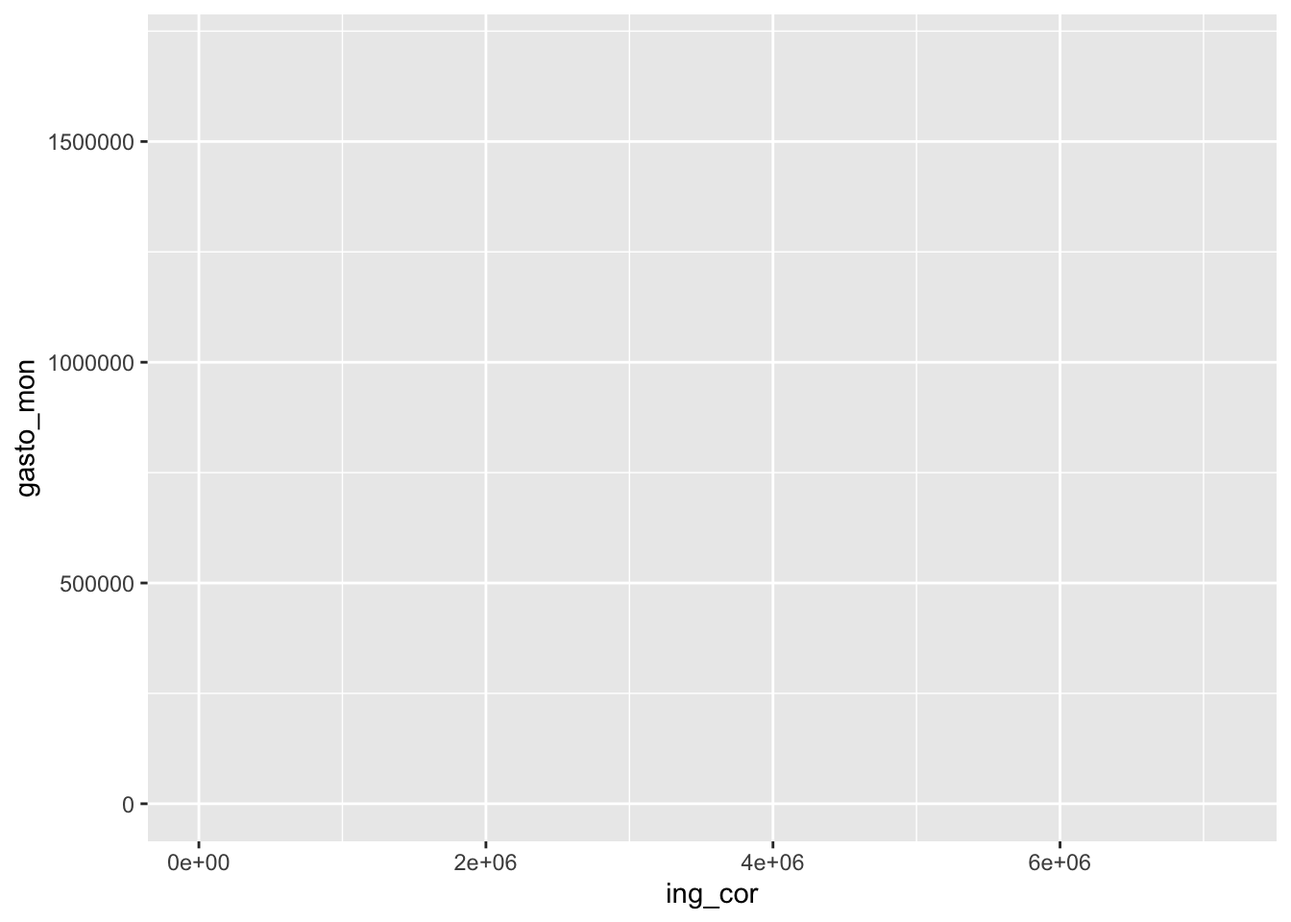
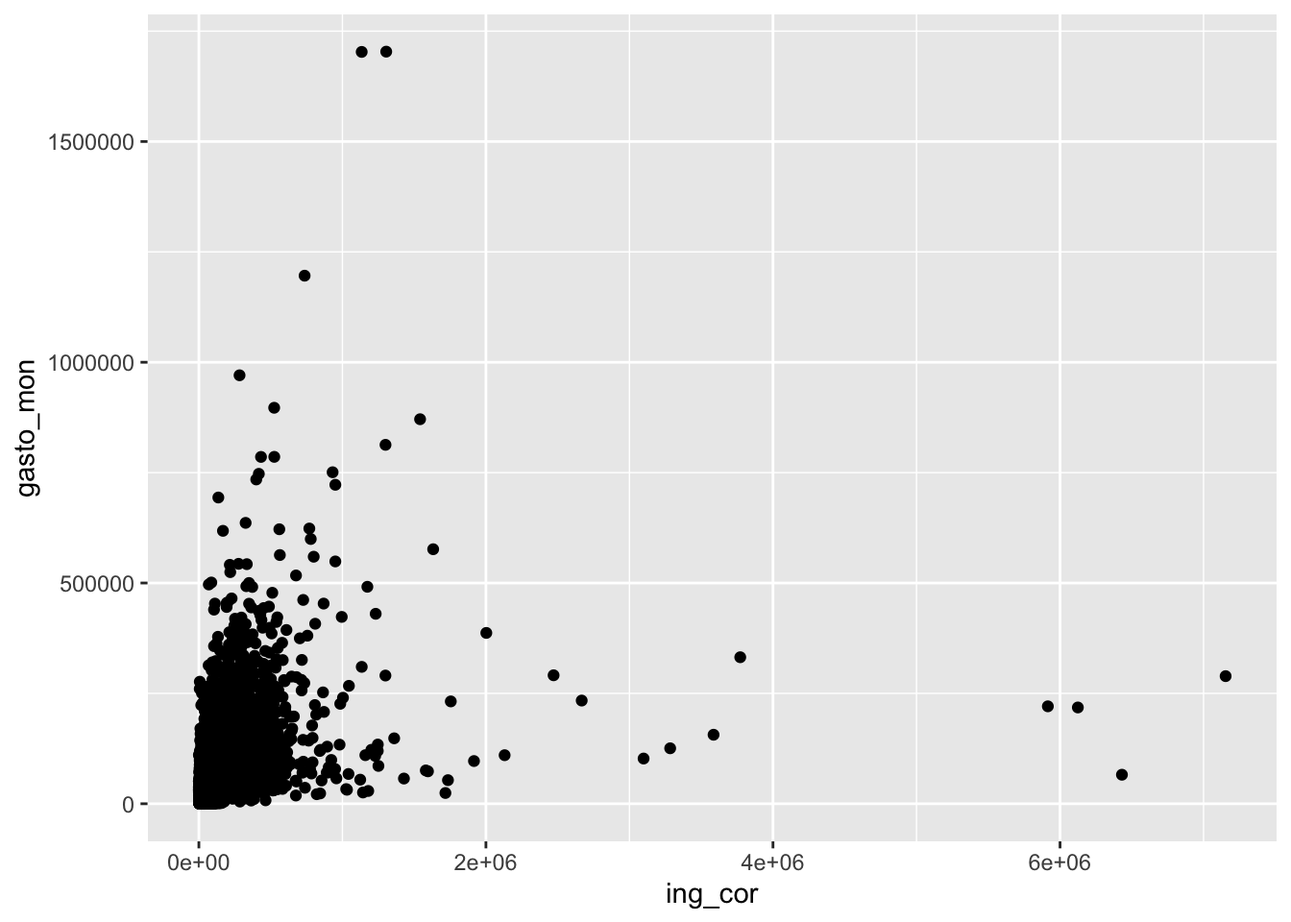
p6_correc

diff --git a/docs/P6.html b/docs/P6.html
@@ -243,6 +243,9 @@ pre > code.sourceCode > span > a:first-child::before { text-decoration: underlin
   <li><a href="#gráficos-bivariados" id="toc-gráficos-bivariados" class="nav-link" data-scroll-target="#gráficos-bivariados">Gráficos bivariados</a>
   <ul class="collapse">
   <li><a href="#cuali-cuali" id="toc-cuali-cuali" class="nav-link" data-scroll-target="#cuali-cuali">Cuali-cuali</a></li>
+  </ul></li>
+  <li><a href="#escalas-de-color" id="toc-escalas-de-color" class="nav-link" data-scroll-target="#escalas-de-color">Escalas de color</a>
+  <ul class="collapse">
   <li><a href="#rcolorbrewer" id="toc-rcolorbrewer" class="nav-link" data-scroll-target="#rcolorbrewer"><code>{RcolorBrewer}</code></a></li>
   <li><a href="#viridis" id="toc-viridis" class="nav-link" data-scroll-target="#viridis"><code>{viridis}</code></a></li>
   <li><a href="#wesanderson" id="toc-wesanderson" class="nav-link" data-scroll-target="#wesanderson"><code>{wesanderson}</code></a></li>
@@ -488,8 +491,10 @@ pre > code.sourceCode > span > a:first-child::before { text-decoration: underlin
 <p><img src="P6_files/figure-html/unnamed-chunk-12-1.png" class="img-fluid" width="672"></p>
 </div>
 </div>
-<p>##Escalas de color</p>
 </section>
+</section>
+<section id="escalas-de-color" class="level2">
+<h2 class="anchored" data-anchor-id="escalas-de-color">Escalas de color</h2>
 <section id="rcolorbrewer" class="level3">
 <h3 class="anchored" data-anchor-id="rcolorbrewer"><code>{RcolorBrewer}</code></h3>
 <div class="cell">
@@ -634,37 +639,32 @@ $IsleofDogs2
 <div class="sourceCode cell-code" id="cb28"><pre class="sourceCode r code-with-copy"><code class="sourceCode r"><span id="cb28-1"><a href="#cb28-1" aria-hidden="true" tabindex="-1"></a>concentrado2022 <span class="sc">%&gt;%</span> </span>
 <span id="cb28-2"><a href="#cb28-2" aria-hidden="true" tabindex="-1"></a>  <span class="fu">ggplot</span>() <span class="sc">+</span></span>
 <span id="cb28-3"><a href="#cb28-3" aria-hidden="true" tabindex="-1"></a>  <span class="fu">aes</span>(<span class="at">x=</span>ing_cor,</span>
-<span id="cb28-4"><a href="#cb28-4" aria-hidden="true" tabindex="-1"></a>      <span class="at">y=</span>gasto_mon)</span></code><button title="Copy to Clipboard" class="code-copy-button"><i class="bi"></i></button></pre></div>
+<span id="cb28-4"><a href="#cb28-4" aria-hidden="true" tabindex="-1"></a>      <span class="at">y=</span>gasto_mon) <span class="sc">+</span></span>
+<span id="cb28-5"><a href="#cb28-5" aria-hidden="true" tabindex="-1"></a>  <span class="fu">geom_point</span>() <span class="co">#puntito</span></span></code><button title="Copy to Clipboard" class="code-copy-button"><i class="bi"></i></button></pre></div>
 <div class="cell-output-display">
 <p><img src="P6_files/figure-html/unnamed-chunk-21-1.png" class="img-fluid" width="672"></p>
-</div>
-<div class="sourceCode cell-code" id="cb29"><pre class="sourceCode r code-with-copy"><code class="sourceCode r"><span id="cb29-1"><a href="#cb29-1" aria-hidden="true" tabindex="-1"></a>  <span class="fu">geom_point</span>() <span class="co">#puntito</span></span></code><button title="Copy to Clipboard" class="code-copy-button"><i class="bi"></i></button></pre></div>
-<div class="cell-output cell-output-stdout">
-<pre><code>geom_point: na.rm = FALSE
-stat_identity: na.rm = FALSE
-position_identity </code></pre>
 </div>
 </div>
 </section>
 <section id="geometría-jitter" class="level3">
 <h3 class="anchored" data-anchor-id="geometría-jitter">geometría “jitter”</h3>
 <div class="cell">
-<div class="sourceCode cell-code" id="cb31"><pre class="sourceCode r code-with-copy"><code class="sourceCode r"><span id="cb31-1"><a href="#cb31-1" aria-hidden="true" tabindex="-1"></a>concentrado2022 <span class="sc">%&gt;%</span> </span>
-<span id="cb31-2"><a href="#cb31-2" aria-hidden="true" tabindex="-1"></a>  <span class="fu">ggplot</span>() <span class="sc">+</span></span>
-<span id="cb31-3"><a href="#cb31-3" aria-hidden="true" tabindex="-1"></a>  <span class="fu">aes</span>(<span class="at">x=</span>ing_cor,</span>
-<span id="cb31-4"><a href="#cb31-4" aria-hidden="true" tabindex="-1"></a>      <span class="at">y=</span>gasto_mon,</span>
-<span id="cb31-5"><a href="#cb31-5" aria-hidden="true" tabindex="-1"></a>      <span class="at">alpha=</span> <span class="fu">I</span>(<span class="fl">0.2</span>))<span class="sc">+</span></span>
-<span id="cb31-6"><a href="#cb31-6" aria-hidden="true" tabindex="-1"></a>  <span class="fu">geom_jitter</span>() <span class="do">## puntito pero "separado"</span></span></code><button title="Copy to Clipboard" class="code-copy-button"><i class="bi"></i></button></pre></div>
+<div class="sourceCode cell-code" id="cb29"><pre class="sourceCode r code-with-copy"><code class="sourceCode r"><span id="cb29-1"><a href="#cb29-1" aria-hidden="true" tabindex="-1"></a>concentrado2022 <span class="sc">%&gt;%</span> </span>
+<span id="cb29-2"><a href="#cb29-2" aria-hidden="true" tabindex="-1"></a>  <span class="fu">ggplot</span>() <span class="sc">+</span></span>
+<span id="cb29-3"><a href="#cb29-3" aria-hidden="true" tabindex="-1"></a>  <span class="fu">aes</span>(<span class="at">x=</span>ing_cor,</span>
+<span id="cb29-4"><a href="#cb29-4" aria-hidden="true" tabindex="-1"></a>      <span class="at">y=</span>gasto_mon,</span>
+<span id="cb29-5"><a href="#cb29-5" aria-hidden="true" tabindex="-1"></a>      <span class="at">alpha=</span> <span class="fu">I</span>(<span class="fl">0.2</span>))<span class="sc">+</span></span>
+<span id="cb29-6"><a href="#cb29-6" aria-hidden="true" tabindex="-1"></a>  <span class="fu">geom_jitter</span>() <span class="do">## puntito pero "separado"</span></span></code><button title="Copy to Clipboard" class="code-copy-button"><i class="bi"></i></button></pre></div>
 <div class="cell-output-display">
 <p><img src="P6_files/figure-html/unnamed-chunk-22-1.png" class="img-fluid" width="672"></p>
 </div>
 </div>
 <div class="cell">
-<div class="sourceCode cell-code" id="cb32"><pre class="sourceCode r code-with-copy"><code class="sourceCode r"><span id="cb32-1"><a href="#cb32-1" aria-hidden="true" tabindex="-1"></a>concentrado2022 <span class="sc">%&gt;%</span> </span>
-<span id="cb32-2"><a href="#cb32-2" aria-hidden="true" tabindex="-1"></a>  <span class="fu">ggplot</span>() <span class="sc">+</span></span>
-<span id="cb32-3"><a href="#cb32-3" aria-hidden="true" tabindex="-1"></a>  <span class="fu">aes</span>(<span class="at">x=</span>ing_cor,</span>
-<span id="cb32-4"><a href="#cb32-4" aria-hidden="true" tabindex="-1"></a>      <span class="at">y=</span>gasto_mon) <span class="sc">+</span></span>
-<span id="cb32-5"><a href="#cb32-5" aria-hidden="true" tabindex="-1"></a>  <span class="fu">geom_text</span>(<span class="fu">aes</span>(<span class="at">label=</span>ent)) <span class="do">## un texto en lugar de punto</span></span></code><button title="Copy to Clipboard" class="code-copy-button"><i class="bi"></i></button></pre></div>
+<div class="sourceCode cell-code" id="cb30"><pre class="sourceCode r code-with-copy"><code class="sourceCode r"><span id="cb30-1"><a href="#cb30-1" aria-hidden="true" tabindex="-1"></a>concentrado2022 <span class="sc">%&gt;%</span> </span>
+<span id="cb30-2"><a href="#cb30-2" aria-hidden="true" tabindex="-1"></a>  <span class="fu">ggplot</span>() <span class="sc">+</span></span>
+<span id="cb30-3"><a href="#cb30-3" aria-hidden="true" tabindex="-1"></a>  <span class="fu">aes</span>(<span class="at">x=</span>ing_cor,</span>
+<span id="cb30-4"><a href="#cb30-4" aria-hidden="true" tabindex="-1"></a>      <span class="at">y=</span>gasto_mon) <span class="sc">+</span></span>
+<span id="cb30-5"><a href="#cb30-5" aria-hidden="true" tabindex="-1"></a>  <span class="fu">geom_text</span>(<span class="fu">aes</span>(<span class="at">label=</span>ent)) <span class="do">## un texto en lugar de punto</span></span></code><button title="Copy to Clipboard" class="code-copy-button"><i class="bi"></i></button></pre></div>
 <div class="cell-output-display">
 <p><img src="P6_files/figure-html/unnamed-chunk-23-1.png" class="img-fluid" width="672"></p>
 </div>
@@ -673,9 +673,11 @@ position_identity </code></pre>
 <section id="geometría-label" class="level3">
 <h3 class="anchored" data-anchor-id="geometría-label">geometría “label”</h3>
 <div class="cell">
-<div class="sourceCode cell-code" id="cb33"><pre class="sourceCode r code-with-copy"><code class="sourceCode r"><span id="cb33-1"><a href="#cb33-1" aria-hidden="true" tabindex="-1"></a>concentrado2022 <span class="sc">%&gt;%</span> </span>
-<span id="cb33-2"><a href="#cb33-2" aria-hidden="true" tabindex="-1"></a>  <span class="fu">ggplot</span>(<span class="fu">aes</span>(ing_cor,gasto_mon)) <span class="sc">+</span></span>
-<span id="cb33-3"><a href="#cb33-3" aria-hidden="true" tabindex="-1"></a>  <span class="fu">geom_label</span>(<span class="fu">aes</span>(<span class="at">label=</span>ent)) <span class="do">## etiqueta</span></span></code><button title="Copy to Clipboard" class="code-copy-button"><i class="bi"></i></button></pre></div>
+<div class="sourceCode cell-code" id="cb31"><pre class="sourceCode r code-with-copy"><code class="sourceCode r"><span id="cb31-1"><a href="#cb31-1" aria-hidden="true" tabindex="-1"></a>concentrado2022 <span class="sc">%&gt;%</span> </span>
+<span id="cb31-2"><a href="#cb31-2" aria-hidden="true" tabindex="-1"></a>  <span class="fu">ggplot</span>() <span class="sc">+</span></span>
+<span id="cb31-3"><a href="#cb31-3" aria-hidden="true" tabindex="-1"></a>  <span class="fu">aes</span>(<span class="at">x=</span>ing_cor,</span>
+<span id="cb31-4"><a href="#cb31-4" aria-hidden="true" tabindex="-1"></a>      <span class="at">y=</span>gasto_mon) <span class="sc">+</span></span>
+<span id="cb31-5"><a href="#cb31-5" aria-hidden="true" tabindex="-1"></a>  <span class="fu">geom_label</span>(<span class="fu">aes</span>(<span class="at">label=</span>ent)) <span class="do">## etiqueta</span></span></code><button title="Copy to Clipboard" class="code-copy-button"><i class="bi"></i></button></pre></div>
 <div class="cell-output-display">
 <p><img src="P6_files/figure-html/unnamed-chunk-24-1.png" class="img-fluid" width="672"></p>
 </div>
@@ -685,24 +687,24 @@ position_identity </code></pre>
 <h3 class="anchored" data-anchor-id="ya-no-es-tan-bivariado">Ya no es tan bivariado</h3>
 <p>Con <em>color</em></p>
 <div class="cell">
-<div class="sourceCode cell-code" id="cb34"><pre class="sourceCode r code-with-copy"><code class="sourceCode r"><span id="cb34-1"><a href="#cb34-1" aria-hidden="true" tabindex="-1"></a>concentrado2022 <span class="sc">%&gt;%</span> </span>
-<span id="cb34-2"><a href="#cb34-2" aria-hidden="true" tabindex="-1"></a>  <span class="fu">ggplot</span>(<span class="fu">aes</span>(<span class="at">x=</span>ing_cor,</span>
-<span id="cb34-3"><a href="#cb34-3" aria-hidden="true" tabindex="-1"></a>             <span class="at">y=</span>gasto_mon,</span>
-<span id="cb34-4"><a href="#cb34-4" aria-hidden="true" tabindex="-1"></a>             <span class="at">color=</span>tam_loc)</span>
-<span id="cb34-5"><a href="#cb34-5" aria-hidden="true" tabindex="-1"></a>         ) <span class="sc">+</span></span>
-<span id="cb34-6"><a href="#cb34-6" aria-hidden="true" tabindex="-1"></a>  <span class="fu">geom_point</span>()</span></code><button title="Copy to Clipboard" class="code-copy-button"><i class="bi"></i></button></pre></div>
+<div class="sourceCode cell-code" id="cb32"><pre class="sourceCode r code-with-copy"><code class="sourceCode r"><span id="cb32-1"><a href="#cb32-1" aria-hidden="true" tabindex="-1"></a>concentrado2022 <span class="sc">%&gt;%</span> </span>
+<span id="cb32-2"><a href="#cb32-2" aria-hidden="true" tabindex="-1"></a>  <span class="fu">ggplot</span>(<span class="fu">aes</span>(<span class="at">x=</span>ing_cor,</span>
+<span id="cb32-3"><a href="#cb32-3" aria-hidden="true" tabindex="-1"></a>             <span class="at">y=</span>gasto_mon,</span>
+<span id="cb32-4"><a href="#cb32-4" aria-hidden="true" tabindex="-1"></a>             <span class="at">color=</span>tam_loc)</span>
+<span id="cb32-5"><a href="#cb32-5" aria-hidden="true" tabindex="-1"></a>         ) <span class="sc">+</span></span>
+<span id="cb32-6"><a href="#cb32-6" aria-hidden="true" tabindex="-1"></a>  <span class="fu">geom_point</span>()</span></code><button title="Copy to Clipboard" class="code-copy-button"><i class="bi"></i></button></pre></div>
 <div class="cell-output-display">
 <p><img src="P6_files/figure-html/unnamed-chunk-25-1.png" class="img-fluid" width="672"></p>
 </div>
 </div>
 <p>Con <em>shape</em></p>
 <div class="cell">
-<div class="sourceCode cell-code" id="cb35"><pre class="sourceCode r code-with-copy"><code class="sourceCode r"><span id="cb35-1"><a href="#cb35-1" aria-hidden="true" tabindex="-1"></a>concentrado2022 <span class="sc">%&gt;%</span> </span>
-<span id="cb35-2"><a href="#cb35-2" aria-hidden="true" tabindex="-1"></a>  <span class="fu">ggplot</span>(<span class="fu">aes</span>(<span class="at">x=</span>ing_cor,</span>
-<span id="cb35-3"><a href="#cb35-3" aria-hidden="true" tabindex="-1"></a>             <span class="at">y=</span>gasto_mon,</span>
-<span id="cb35-4"><a href="#cb35-4" aria-hidden="true" tabindex="-1"></a>             <span class="at">shape=</span>tam_loc)</span>
-<span id="cb35-5"><a href="#cb35-5" aria-hidden="true" tabindex="-1"></a>  ) <span class="sc">+</span></span>
-<span id="cb35-6"><a href="#cb35-6" aria-hidden="true" tabindex="-1"></a>  <span class="fu">geom_point</span>() <span class="do">## ojo, nos da un "warning"</span></span></code><button title="Copy to Clipboard" class="code-copy-button"><i class="bi"></i></button></pre></div>
+<div class="sourceCode cell-code" id="cb33"><pre class="sourceCode r code-with-copy"><code class="sourceCode r"><span id="cb33-1"><a href="#cb33-1" aria-hidden="true" tabindex="-1"></a>concentrado2022 <span class="sc">%&gt;%</span> </span>
+<span id="cb33-2"><a href="#cb33-2" aria-hidden="true" tabindex="-1"></a>  <span class="fu">ggplot</span>(<span class="fu">aes</span>(<span class="at">x=</span>ing_cor,</span>
+<span id="cb33-3"><a href="#cb33-3" aria-hidden="true" tabindex="-1"></a>             <span class="at">y=</span>gasto_mon,</span>
+<span id="cb33-4"><a href="#cb33-4" aria-hidden="true" tabindex="-1"></a>             <span class="at">shape=</span>tam_loc)</span>
+<span id="cb33-5"><a href="#cb33-5" aria-hidden="true" tabindex="-1"></a>  ) <span class="sc">+</span></span>
+<span id="cb33-6"><a href="#cb33-6" aria-hidden="true" tabindex="-1"></a>  <span class="fu">geom_point</span>() <span class="do">## ojo, nos da un "warning"</span></span></code><button title="Copy to Clipboard" class="code-copy-button"><i class="bi"></i></button></pre></div>
 <div class="cell-output-display">
 <p><img src="P6_files/figure-html/unnamed-chunk-26-1.png" class="img-fluid" width="672"></p>
 </div>
@@ -712,31 +714,32 @@ position_identity </code></pre>
 <h3 class="anchored" data-anchor-id="facets"><em>facets</em></h3>
 <p>Con <em>facet_wrap</em></p>
 <div class="cell">
-<div class="sourceCode cell-code" id="cb36"><pre class="sourceCode r code-with-copy"><code class="sourceCode r"><span id="cb36-1"><a href="#cb36-1" aria-hidden="true" tabindex="-1"></a>concentrado2022 <span class="sc">%&gt;%</span> </span>
-<span id="cb36-2"><a href="#cb36-2" aria-hidden="true" tabindex="-1"></a>  <span class="fu">ggplot</span>(<span class="fu">aes</span>(<span class="at">x=</span>ing_cor,</span>
-<span id="cb36-3"><a href="#cb36-3" aria-hidden="true" tabindex="-1"></a>             <span class="at">y=</span>gasto_mon)) <span class="sc">+</span></span>
-<span id="cb36-4"><a href="#cb36-4" aria-hidden="true" tabindex="-1"></a>  <span class="fu">geom_point</span>() <span class="sc">+</span> <span class="fu">facet_wrap</span>(<span class="sc">~</span>tam_loc)</span></code><button title="Copy to Clipboard" class="code-copy-button"><i class="bi"></i></button></pre></div>
+<div class="sourceCode cell-code" id="cb34"><pre class="sourceCode r code-with-copy"><code class="sourceCode r"><span id="cb34-1"><a href="#cb34-1" aria-hidden="true" tabindex="-1"></a>concentrado2022 <span class="sc">%&gt;%</span> </span>
+<span id="cb34-2"><a href="#cb34-2" aria-hidden="true" tabindex="-1"></a>  <span class="fu">ggplot</span>(<span class="fu">aes</span>(<span class="at">x=</span>ing_cor,</span>
+<span id="cb34-3"><a href="#cb34-3" aria-hidden="true" tabindex="-1"></a>             <span class="at">y=</span>gasto_mon)) <span class="sc">+</span></span>
+<span id="cb34-4"><a href="#cb34-4" aria-hidden="true" tabindex="-1"></a>  <span class="fu">geom_point</span>() <span class="sc">+</span> <span class="fu">facet_wrap</span>(<span class="sc">~</span>tam_loc)</span></code><button title="Copy to Clipboard" class="code-copy-button"><i class="bi"></i></button></pre></div>
 <div class="cell-output-display">
 <p><img src="P6_files/figure-html/unnamed-chunk-27-1.png" class="img-fluid" width="672"></p>
 </div>
 </div>
 <p>Con <em>facet_wrap</em>, columna</p>
 <div class="cell">
-<div class="sourceCode cell-code" id="cb37"><pre class="sourceCode r code-with-copy"><code class="sourceCode r"><span id="cb37-1"><a href="#cb37-1" aria-hidden="true" tabindex="-1"></a>concentrado2022 <span class="sc">%&gt;%</span> </span>
-<span id="cb37-2"><a href="#cb37-2" aria-hidden="true" tabindex="-1"></a>  <span class="fu">ggplot</span>(<span class="fu">aes</span>(<span class="at">x=</span>ing_cor,</span>
-<span id="cb37-3"><a href="#cb37-3" aria-hidden="true" tabindex="-1"></a>             <span class="at">y=</span>gasto_mon)) <span class="sc">+</span></span>
-<span id="cb37-4"><a href="#cb37-4" aria-hidden="true" tabindex="-1"></a>  <span class="fu">geom_point</span>() <span class="sc">+</span> <span class="fu">facet_grid</span>(.<span class="sc">~</span>tam_loc)</span></code><button title="Copy to Clipboard" class="code-copy-button"><i class="bi"></i></button></pre></div>
+<div class="sourceCode cell-code" id="cb35"><pre class="sourceCode r code-with-copy"><code class="sourceCode r"><span id="cb35-1"><a href="#cb35-1" aria-hidden="true" tabindex="-1"></a>concentrado2022 <span class="sc">%&gt;%</span> </span>
+<span id="cb35-2"><a href="#cb35-2" aria-hidden="true" tabindex="-1"></a>  <span class="fu">ggplot</span>(<span class="fu">aes</span>(<span class="at">x=</span>ing_cor,</span>
+<span id="cb35-3"><a href="#cb35-3" aria-hidden="true" tabindex="-1"></a>             <span class="at">y=</span>gasto_mon)) <span class="sc">+</span></span>
+<span id="cb35-4"><a href="#cb35-4" aria-hidden="true" tabindex="-1"></a>  <span class="fu">geom_point</span>() <span class="sc">+</span></span>
+<span id="cb35-5"><a href="#cb35-5" aria-hidden="true" tabindex="-1"></a>  <span class="fu">facet_grid</span>(.<span class="sc">~</span>tam_loc)</span></code><button title="Copy to Clipboard" class="code-copy-button"><i class="bi"></i></button></pre></div>
 <div class="cell-output-display">
 <p><img src="P6_files/figure-html/unnamed-chunk-28-1.png" class="img-fluid" width="672"></p>
 </div>
 </div>
 <p>Con <em>facet_wrap</em>, fila</p>
 <div class="cell">
-<div class="sourceCode cell-code" id="cb38"><pre class="sourceCode r code-with-copy"><code class="sourceCode r"><span id="cb38-1"><a href="#cb38-1" aria-hidden="true" tabindex="-1"></a>concentrado2022 <span class="sc">%&gt;%</span> </span>
-<span id="cb38-2"><a href="#cb38-2" aria-hidden="true" tabindex="-1"></a>  <span class="fu">ggplot</span>(<span class="fu">aes</span>(<span class="at">x=</span>ing_cor,</span>
-<span id="cb38-3"><a href="#cb38-3" aria-hidden="true" tabindex="-1"></a>             <span class="at">y=</span>gasto_mon)) <span class="sc">+</span></span>
-<span id="cb38-4"><a href="#cb38-4" aria-hidden="true" tabindex="-1"></a>  <span class="fu">geom_point</span>() <span class="sc">+</span></span>
-<span id="cb38-5"><a href="#cb38-5" aria-hidden="true" tabindex="-1"></a>  <span class="fu">facet_grid</span>(tam_loc<span class="sc">~</span>.)</span></code><button title="Copy to Clipboard" class="code-copy-button"><i class="bi"></i></button></pre></div>
+<div class="sourceCode cell-code" id="cb36"><pre class="sourceCode r code-with-copy"><code class="sourceCode r"><span id="cb36-1"><a href="#cb36-1" aria-hidden="true" tabindex="-1"></a>concentrado2022 <span class="sc">%&gt;%</span> </span>
+<span id="cb36-2"><a href="#cb36-2" aria-hidden="true" tabindex="-1"></a>  <span class="fu">ggplot</span>(<span class="fu">aes</span>(<span class="at">x=</span>ing_cor,</span>
+<span id="cb36-3"><a href="#cb36-3" aria-hidden="true" tabindex="-1"></a>             <span class="at">y=</span>gasto_mon)) <span class="sc">+</span></span>
+<span id="cb36-4"><a href="#cb36-4" aria-hidden="true" tabindex="-1"></a>  <span class="fu">geom_point</span>() <span class="sc">+</span></span>
+<span id="cb36-5"><a href="#cb36-5" aria-hidden="true" tabindex="-1"></a>  <span class="fu">facet_grid</span>(tam_loc<span class="sc">~</span>.)</span></code><button title="Copy to Clipboard" class="code-copy-button"><i class="bi"></i></button></pre></div>
 <div class="cell-output-display">
 <p><img src="P6_files/figure-html/unnamed-chunk-29-1.png" class="img-fluid" width="672"></p>
 </div>
@@ -745,12 +748,12 @@ position_identity </code></pre>
 <section id="ajustes-smooth" class="level3">
 <h3 class="anchored" data-anchor-id="ajustes-smooth">Ajustes <em>smooth</em></h3>
 <div class="cell">
-<div class="sourceCode cell-code" id="cb39"><pre class="sourceCode r code-with-copy"><code class="sourceCode r"><span id="cb39-1"><a href="#cb39-1" aria-hidden="true" tabindex="-1"></a>concentrado2022 <span class="sc">%&gt;%</span> </span>
-<span id="cb39-2"><a href="#cb39-2" aria-hidden="true" tabindex="-1"></a>  <span class="fu">ggplot</span>(<span class="fu">aes</span>(<span class="at">x=</span>ing_cor,</span>
-<span id="cb39-3"><a href="#cb39-3" aria-hidden="true" tabindex="-1"></a>             <span class="at">y=</span>gasto_mon)) <span class="sc">+</span></span>
-<span id="cb39-4"><a href="#cb39-4" aria-hidden="true" tabindex="-1"></a>  <span class="fu">geom_point</span>() <span class="sc">+</span></span>
-<span id="cb39-5"><a href="#cb39-5" aria-hidden="true" tabindex="-1"></a>  <span class="fu">geom_smooth</span>(<span class="at">method=</span><span class="st">"lm"</span>) <span class="sc">+</span></span>
-<span id="cb39-6"><a href="#cb39-6" aria-hidden="true" tabindex="-1"></a>  <span class="fu">facet_grid</span>(tam_loc<span class="sc">~</span>.)</span></code><button title="Copy to Clipboard" class="code-copy-button"><i class="bi"></i></button></pre></div>
+<div class="sourceCode cell-code" id="cb37"><pre class="sourceCode r code-with-copy"><code class="sourceCode r"><span id="cb37-1"><a href="#cb37-1" aria-hidden="true" tabindex="-1"></a>concentrado2022 <span class="sc">%&gt;%</span> </span>
+<span id="cb37-2"><a href="#cb37-2" aria-hidden="true" tabindex="-1"></a>  <span class="fu">ggplot</span>(<span class="fu">aes</span>(<span class="at">x=</span>ing_cor,</span>
+<span id="cb37-3"><a href="#cb37-3" aria-hidden="true" tabindex="-1"></a>             <span class="at">y=</span>gasto_mon)) <span class="sc">+</span></span>
+<span id="cb37-4"><a href="#cb37-4" aria-hidden="true" tabindex="-1"></a>  <span class="fu">geom_point</span>() <span class="sc">+</span></span>
+<span id="cb37-5"><a href="#cb37-5" aria-hidden="true" tabindex="-1"></a>  <span class="fu">geom_smooth</span>(<span class="at">method=</span><span class="st">"lm"</span>) <span class="sc">+</span></span>
+<span id="cb37-6"><a href="#cb37-6" aria-hidden="true" tabindex="-1"></a>  <span class="fu">facet_grid</span>(tam_loc<span class="sc">~</span>.)</span></code><button title="Copy to Clipboard" class="code-copy-button"><i class="bi"></i></button></pre></div>
 <div class="cell-output cell-output-stderr">
 <pre><code>`geom_smooth()` using formula = 'y ~ x'</code></pre>
 </div>
@@ -760,13 +763,13 @@ position_identity </code></pre>
 </div>
 <p>Enchulando tantito:</p>
 <div class="cell">
-<div class="sourceCode cell-code" id="cb41"><pre class="sourceCode r code-with-copy"><code class="sourceCode r"><span id="cb41-1"><a href="#cb41-1" aria-hidden="true" tabindex="-1"></a>concentrado2022 <span class="sc">%&gt;%</span> </span>
-<span id="cb41-2"><a href="#cb41-2" aria-hidden="true" tabindex="-1"></a>  <span class="fu">ggplot</span>(<span class="fu">aes</span>(<span class="at">x=</span>ing_cor,</span>
-<span id="cb41-3"><a href="#cb41-3" aria-hidden="true" tabindex="-1"></a>             <span class="at">y=</span>gasto_mon,</span>
-<span id="cb41-4"><a href="#cb41-4" aria-hidden="true" tabindex="-1"></a>             <span class="at">color=</span>tam_loc)) <span class="sc">+</span></span>
-<span id="cb41-5"><a href="#cb41-5" aria-hidden="true" tabindex="-1"></a>  <span class="fu">geom_text</span>(<span class="fu">aes</span>(<span class="at">label=</span>ent)) <span class="sc">+</span></span>
-<span id="cb41-6"><a href="#cb41-6" aria-hidden="true" tabindex="-1"></a>  <span class="fu">geom_smooth</span>(<span class="at">method=</span><span class="st">"lm"</span>) <span class="sc">+</span> <span class="fu">scale_fill_brewer</span>(<span class="at">palette =</span> <span class="st">"Dark2"</span>) <span class="sc">+</span></span>
-<span id="cb41-7"><a href="#cb41-7" aria-hidden="true" tabindex="-1"></a>  <span class="fu">theme_minimal</span>()</span></code><button title="Copy to Clipboard" class="code-copy-button"><i class="bi"></i></button></pre></div>
+<div class="sourceCode cell-code" id="cb39"><pre class="sourceCode r code-with-copy"><code class="sourceCode r"><span id="cb39-1"><a href="#cb39-1" aria-hidden="true" tabindex="-1"></a>concentrado2022 <span class="sc">%&gt;%</span> </span>
+<span id="cb39-2"><a href="#cb39-2" aria-hidden="true" tabindex="-1"></a>  <span class="fu">ggplot</span>(<span class="fu">aes</span>(<span class="at">x=</span>ing_cor,</span>
+<span id="cb39-3"><a href="#cb39-3" aria-hidden="true" tabindex="-1"></a>             <span class="at">y=</span>gasto_mon,</span>
+<span id="cb39-4"><a href="#cb39-4" aria-hidden="true" tabindex="-1"></a>             <span class="at">color=</span>tam_loc)) <span class="sc">+</span></span>
+<span id="cb39-5"><a href="#cb39-5" aria-hidden="true" tabindex="-1"></a>  <span class="fu">geom_text</span>(<span class="fu">aes</span>(<span class="at">label=</span>ent)) <span class="sc">+</span></span>
+<span id="cb39-6"><a href="#cb39-6" aria-hidden="true" tabindex="-1"></a>  <span class="fu">geom_smooth</span>(<span class="at">method=</span><span class="st">"lm"</span>) <span class="sc">+</span> <span class="fu">scale_fill_brewer</span>(<span class="at">palette =</span> <span class="st">"Dark2"</span>) <span class="sc">+</span></span>
+<span id="cb39-7"><a href="#cb39-7" aria-hidden="true" tabindex="-1"></a>  <span class="fu">theme_minimal</span>()</span></code><button title="Copy to Clipboard" class="code-copy-button"><i class="bi"></i></button></pre></div>
 <div class="cell-output cell-output-stderr">
 <pre><code>`geom_smooth()` using formula = 'y ~ x'</code></pre>
 </div>
@@ -778,39 +781,39 @@ position_identity </code></pre>
 <section id="una-cuarta-variable" class="level3">
 <h3 class="anchored" data-anchor-id="una-cuarta-variable">Una cuarta variable</h3>
 <div class="cell">
-<div class="sourceCode cell-code" id="cb43"><pre class="sourceCode r code-with-copy"><code class="sourceCode r"><span id="cb43-1"><a href="#cb43-1" aria-hidden="true" tabindex="-1"></a>concentrado2022 <span class="sc">%&gt;%</span> </span>
-<span id="cb43-2"><a href="#cb43-2" aria-hidden="true" tabindex="-1"></a>  <span class="fu">ggplot</span>(<span class="fu">aes</span>(<span class="at">x=</span>ing_cor,</span>
-<span id="cb43-3"><a href="#cb43-3" aria-hidden="true" tabindex="-1"></a>             <span class="at">y=</span>gasto_mon,</span>
-<span id="cb43-4"><a href="#cb43-4" aria-hidden="true" tabindex="-1"></a>             <span class="at">color=</span>tam_loc)) <span class="sc">+</span></span>
-<span id="cb43-5"><a href="#cb43-5" aria-hidden="true" tabindex="-1"></a>  <span class="fu">geom_point</span>(<span class="fu">aes</span>(<span class="at">size=</span>tot_integ))<span class="sc">+</span> <span class="do">## ojo</span></span>
-<span id="cb43-6"><a href="#cb43-6" aria-hidden="true" tabindex="-1"></a>  <span class="fu">theme_minimal</span>()</span></code><button title="Copy to Clipboard" class="code-copy-button"><i class="bi"></i></button></pre></div>
+<div class="sourceCode cell-code" id="cb41"><pre class="sourceCode r code-with-copy"><code class="sourceCode r"><span id="cb41-1"><a href="#cb41-1" aria-hidden="true" tabindex="-1"></a>concentrado2022 <span class="sc">%&gt;%</span> </span>
+<span id="cb41-2"><a href="#cb41-2" aria-hidden="true" tabindex="-1"></a>  <span class="fu">ggplot</span>(<span class="fu">aes</span>(<span class="at">x=</span>ing_cor,</span>
+<span id="cb41-3"><a href="#cb41-3" aria-hidden="true" tabindex="-1"></a>             <span class="at">y=</span>gasto_mon,</span>
+<span id="cb41-4"><a href="#cb41-4" aria-hidden="true" tabindex="-1"></a>             <span class="at">color=</span>tam_loc)) <span class="sc">+</span></span>
+<span id="cb41-5"><a href="#cb41-5" aria-hidden="true" tabindex="-1"></a>  <span class="fu">geom_point</span>(<span class="fu">aes</span>(<span class="at">size=</span>tot_integ))<span class="sc">+</span> <span class="do">## ojo</span></span>
+<span id="cb41-6"><a href="#cb41-6" aria-hidden="true" tabindex="-1"></a>  <span class="fu">theme_minimal</span>()</span></code><button title="Copy to Clipboard" class="code-copy-button"><i class="bi"></i></button></pre></div>
 <div class="cell-output-display">
 <p><img src="P6_files/figure-html/unnamed-chunk-32-1.png" class="img-fluid" width="672"></p>
 </div>
 </div>
 <p>No es lo mismo, pero es igual:</p>
 <div class="cell">
-<div class="sourceCode cell-code" id="cb44"><pre class="sourceCode r code-with-copy"><code class="sourceCode r"><span id="cb44-1"><a href="#cb44-1" aria-hidden="true" tabindex="-1"></a>concentrado2022 <span class="sc">%&gt;%</span> </span>
-<span id="cb44-2"><a href="#cb44-2" aria-hidden="true" tabindex="-1"></a>  <span class="fu">ggplot</span>(<span class="fu">aes</span>(<span class="at">x=</span>ing_cor,</span>
-<span id="cb44-3"><a href="#cb44-3" aria-hidden="true" tabindex="-1"></a>             <span class="at">y=</span>gasto_mon,</span>
-<span id="cb44-4"><a href="#cb44-4" aria-hidden="true" tabindex="-1"></a>             <span class="at">color=</span>tam_loc,</span>
-<span id="cb44-5"><a href="#cb44-5" aria-hidden="true" tabindex="-1"></a>             <span class="at">size=</span>tot_integ)) <span class="sc">+</span></span>
-<span id="cb44-6"><a href="#cb44-6" aria-hidden="true" tabindex="-1"></a>  <span class="fu">geom_point</span>()<span class="sc">+</span> </span>
-<span id="cb44-7"><a href="#cb44-7" aria-hidden="true" tabindex="-1"></a>  <span class="fu">theme_minimal</span>()</span></code><button title="Copy to Clipboard" class="code-copy-button"><i class="bi"></i></button></pre></div>
+<div class="sourceCode cell-code" id="cb42"><pre class="sourceCode r code-with-copy"><code class="sourceCode r"><span id="cb42-1"><a href="#cb42-1" aria-hidden="true" tabindex="-1"></a>concentrado2022 <span class="sc">%&gt;%</span> </span>
+<span id="cb42-2"><a href="#cb42-2" aria-hidden="true" tabindex="-1"></a>  <span class="fu">ggplot</span>(<span class="fu">aes</span>(<span class="at">x=</span>ing_cor,</span>
+<span id="cb42-3"><a href="#cb42-3" aria-hidden="true" tabindex="-1"></a>             <span class="at">y=</span>gasto_mon,</span>
+<span id="cb42-4"><a href="#cb42-4" aria-hidden="true" tabindex="-1"></a>             <span class="at">color=</span>tam_loc,</span>
+<span id="cb42-5"><a href="#cb42-5" aria-hidden="true" tabindex="-1"></a>             <span class="at">size=</span>tot_integ)) <span class="sc">+</span></span>
+<span id="cb42-6"><a href="#cb42-6" aria-hidden="true" tabindex="-1"></a>  <span class="fu">geom_point</span>()<span class="sc">+</span> </span>
+<span id="cb42-7"><a href="#cb42-7" aria-hidden="true" tabindex="-1"></a>  <span class="fu">theme_minimal</span>()</span></code><button title="Copy to Clipboard" class="code-copy-button"><i class="bi"></i></button></pre></div>
 <div class="cell-output-display">
 <p><img src="P6_files/figure-html/unnamed-chunk-33-1.png" class="img-fluid" width="672"></p>
 </div>
 </div>
 <p>Algunas opciones interesantes:</p>
 <div class="cell">
-<div class="sourceCode cell-code" id="cb45"><pre class="sourceCode r code-with-copy"><code class="sourceCode r"><span id="cb45-1"><a href="#cb45-1" aria-hidden="true" tabindex="-1"></a>concentrado2022 <span class="sc">%&gt;%</span> </span>
-<span id="cb45-2"><a href="#cb45-2" aria-hidden="true" tabindex="-1"></a>  <span class="fu">ggplot</span>(<span class="fu">aes</span>(<span class="at">x=</span>ing_cor,</span>
-<span id="cb45-3"><a href="#cb45-3" aria-hidden="true" tabindex="-1"></a>             <span class="at">y=</span>gasto_mon,</span>
-<span id="cb45-4"><a href="#cb45-4" aria-hidden="true" tabindex="-1"></a>             <span class="at">color=</span>tam_loc,</span>
-<span id="cb45-5"><a href="#cb45-5" aria-hidden="true" tabindex="-1"></a>             <span class="at">size=</span>tot_integ)) <span class="sc">+</span></span>
-<span id="cb45-6"><a href="#cb45-6" aria-hidden="true" tabindex="-1"></a>  <span class="fu">geom_text</span>(<span class="fu">aes</span>(<span class="at">label=</span>ent),</span>
-<span id="cb45-7"><a href="#cb45-7" aria-hidden="true" tabindex="-1"></a>            <span class="at">check_overlap =</span> <span class="cn">TRUE</span>)<span class="sc">+</span></span>
-<span id="cb45-8"><a href="#cb45-8" aria-hidden="true" tabindex="-1"></a>  <span class="fu">theme_minimal</span>()</span></code><button title="Copy to Clipboard" class="code-copy-button"><i class="bi"></i></button></pre></div>
+<div class="sourceCode cell-code" id="cb43"><pre class="sourceCode r code-with-copy"><code class="sourceCode r"><span id="cb43-1"><a href="#cb43-1" aria-hidden="true" tabindex="-1"></a>concentrado2022 <span class="sc">%&gt;%</span> </span>
+<span id="cb43-2"><a href="#cb43-2" aria-hidden="true" tabindex="-1"></a>  <span class="fu">ggplot</span>(<span class="fu">aes</span>(<span class="at">x=</span>ing_cor,</span>
+<span id="cb43-3"><a href="#cb43-3" aria-hidden="true" tabindex="-1"></a>             <span class="at">y=</span>gasto_mon,</span>
+<span id="cb43-4"><a href="#cb43-4" aria-hidden="true" tabindex="-1"></a>             <span class="at">color=</span>tam_loc,</span>
+<span id="cb43-5"><a href="#cb43-5" aria-hidden="true" tabindex="-1"></a>             <span class="at">size=</span>tot_integ)) <span class="sc">+</span></span>
+<span id="cb43-6"><a href="#cb43-6" aria-hidden="true" tabindex="-1"></a>  <span class="fu">geom_text</span>(<span class="fu">aes</span>(<span class="at">label=</span>ent),</span>
+<span id="cb43-7"><a href="#cb43-7" aria-hidden="true" tabindex="-1"></a>            <span class="at">check_overlap =</span> <span class="cn">TRUE</span>)<span class="sc">+</span></span>
+<span id="cb43-8"><a href="#cb43-8" aria-hidden="true" tabindex="-1"></a>  <span class="fu">theme_minimal</span>()</span></code><button title="Copy to Clipboard" class="code-copy-button"><i class="bi"></i></button></pre></div>
 <div class="cell-output-display">
 <p><img src="P6_files/figure-html/unnamed-chunk-34-1.png" class="img-fluid" width="672"></p>
 </div>
@@ -819,12 +822,11 @@ position_identity </code></pre>
 </section>
 <section id="ejercicio" class="level2">
 <h2 class="anchored" data-anchor-id="ejercicio">Ejercicio</h2>
-<ol type="1">
-<li>Realiza dos gráficos. Uno de una sola variable y otro con dos variables, el que sea de tu agrado, con las variables que te sientes cómoda o cómodo, en la base de datos de tu elección</li>
-</ol>
+<p>Realiza <strong>dos</strong> gráficos. 1. Uno de una sola variable 2. otro con dos variables, el que sea de tu agrado, con las variables que te sientes cómoda o cómodo, en la base de datos de tu elección</p>
 <ul>
-<li>Puedes modificarlo usando el paquete “esquisse”. Envía las imágenes Envía el script</li>
+<li>Puedes modificarlo usando el paquete <code>{esquisse}</code>. Envía las imágenes</li>
 </ul>
+<p>Envía el script</p>
 
 
 </section>
